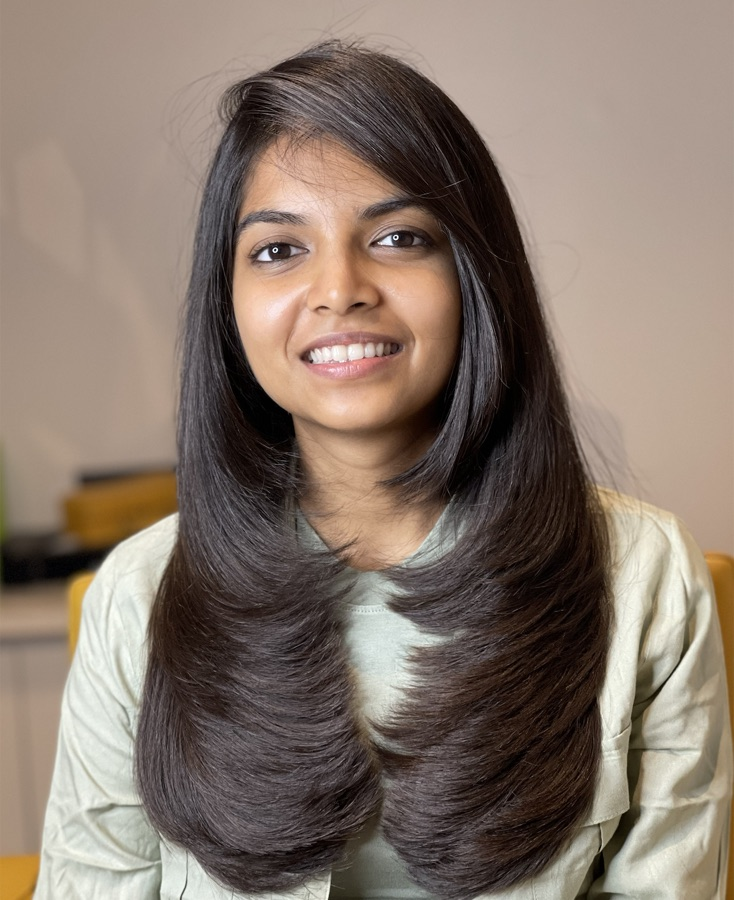
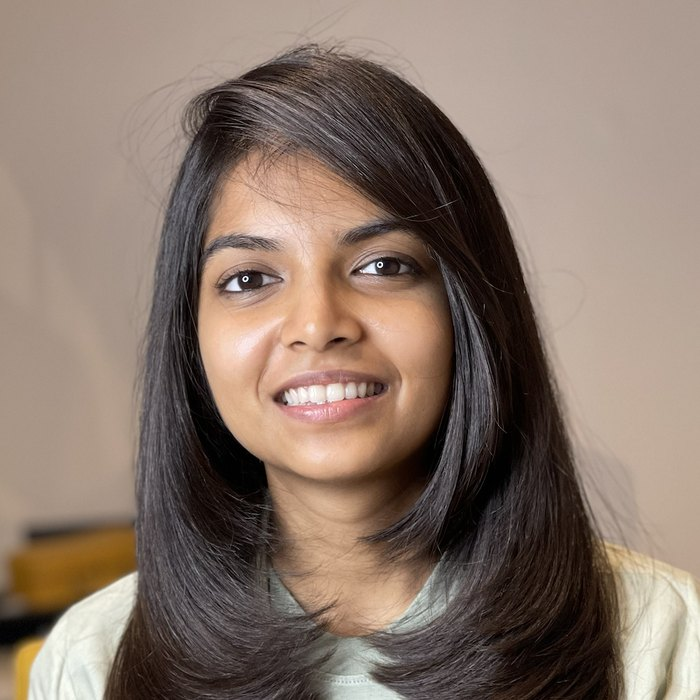
Circular face-centered portraits and consistent People typography
Both portraits cropped square around the face so they read at the same
scale, shown as matching circles. Intro line under the heading now uses
the site's lede style for a deliberate H2 > lede > body hierarchy.

diff --git a/styles.css b/styles.css
@@ -279,9 +279,9 @@ a.project-media:hover .frame.lead img, .project-media:hover .frame.lead img { tr
    People
    ============================================================ */
 .people { padding-block: clamp(5rem, 12vh, 9rem); }
-.people-head { max-width: 54ch; margin-bottom: clamp(2.5rem,6vh,4rem); }
+.people-head { max-width: 64ch; margin-bottom: clamp(1.8rem,4vh,2.6rem); }
 .people-head h2 { font-size: clamp(2rem, 4vw, 3.2rem); font-weight: 300; }
-.people-head p { margin-top: 1.2rem; color: var(--muted); max-width: 50ch; }
+.people-head p { margin-top: 1.4rem; font-size: clamp(1.12rem, 1vw + 0.95rem, 1.42rem); line-height: 1.5; color: var(--ink); max-width: 40ch; }
 .people-grid { display: grid; grid-template-columns: 1fr 1fr; gap: clamp(2rem, 5vw, 4.5rem); }
 .person { border-top: 1px solid var(--line); padding-top: 1.8rem; }
 .people-story { max-width: 64ch; margin-bottom: clamp(2.8rem, 7vh, 4.5rem); color: #37423a; }
@@ -295,9 +295,9 @@ a.project-media:hover .frame.lead img, .project-media:hover .frame.lead img { tr
   padding: 0.08em 0.14em 0 0;
   color: var(--pine);
 }
-.person .p-photo { aspect-ratio: 4 / 5; max-width: 340px; overflow: hidden; border-radius: 4px; background: var(--paper-2); margin-bottom: 1.6rem; }
+.person .p-photo { width: clamp(180px, 22vw, 240px); aspect-ratio: 1 / 1; overflow: hidden; border-radius: 50%; background: var(--paper-2); margin-bottom: 1.6rem; }
 .person .p-photo img { width: 100%; height: 100%; object-fit: cover; filter: saturate(0.94); transition: transform 1.1s var(--ease); }
-.person .p-photo:hover img { transform: scale(1.04); }
+.person .p-photo:hover img { transform: scale(1.05); }
 .person h3 { font-size: clamp(1.8rem, 2.5vw, 2.4rem); font-weight: 300; letter-spacing: -0.01em; }
 .person .role { color: var(--lake-deep); font-size: 0.98rem; margin-top: 0.4rem; font-weight: 500; }
 .person p { margin-top: 1.1rem; color: #37423a; max-width: 42ch; }
